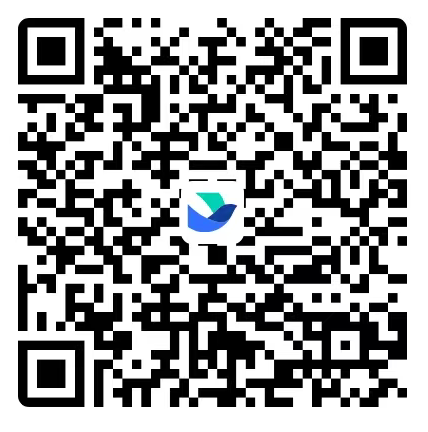
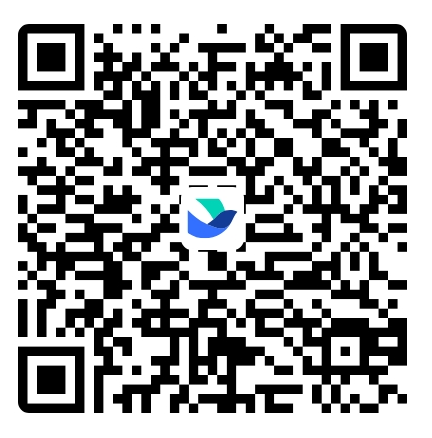
fix(chapter): 字数统计改为按纯文本计算；更换飞书群二维码
- saveChapterContentAction 保存时先 htmlToText 提取正文再计数，HTML 标签不再计入字数，与流水线/工作台显示口径一致
- 替换 public/assets/qr-feishu.png 为新群码

diff --git a/src/actions/chapter.ts b/src/actions/chapter.ts
@@ -5,6 +5,7 @@ import { after } from "next/server";
 import { prisma } from "@/lib/prisma";
 import { getCurrentUser } from "@/lib/session";
 import { extractChapterWiki } from "@/lib/ai/wiki";
+import { htmlToText } from "@/lib/utils";
 
 /**
  * 章节相关 Server Actions。
@@ -24,7 +25,8 @@ export async function saveChapterContentAction(chapterId: string, content: strin
     return { ok: false, error: "章节不存在或无权限" };
   }
 
-  const wordCount = content.replace(/\s/g, "").length;
+  // 字数按纯文本统计（HTML 标签不计入），与流水线/工作台显示口径一致
+  const wordCount = htmlToText(content).replace(/\s/g, "").length;
   await prisma.chapter.update({
     where: { id: chapterId },
     data: { content, wordCount },
